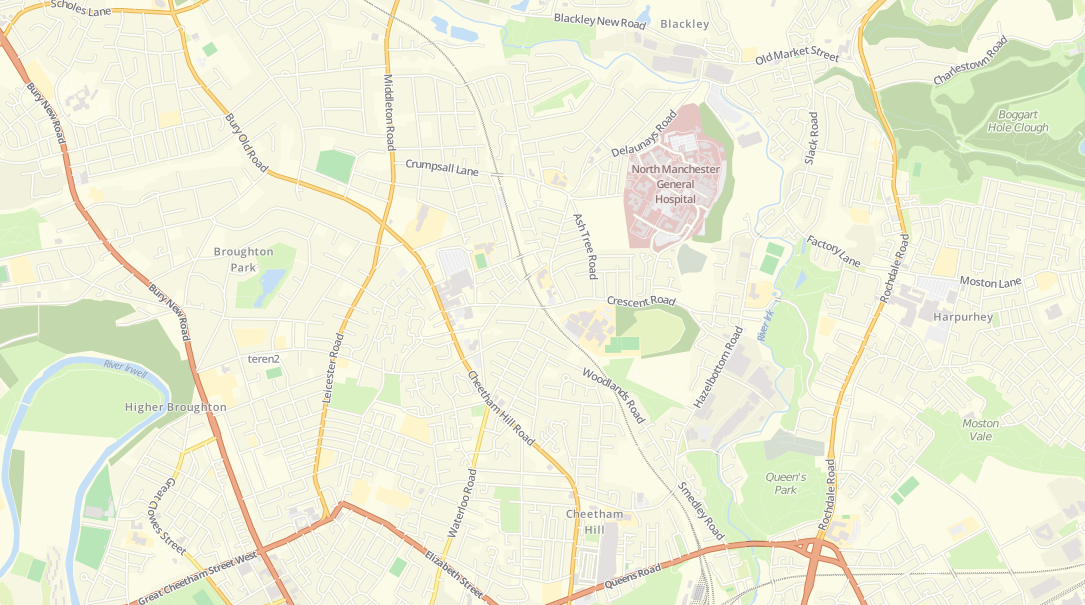
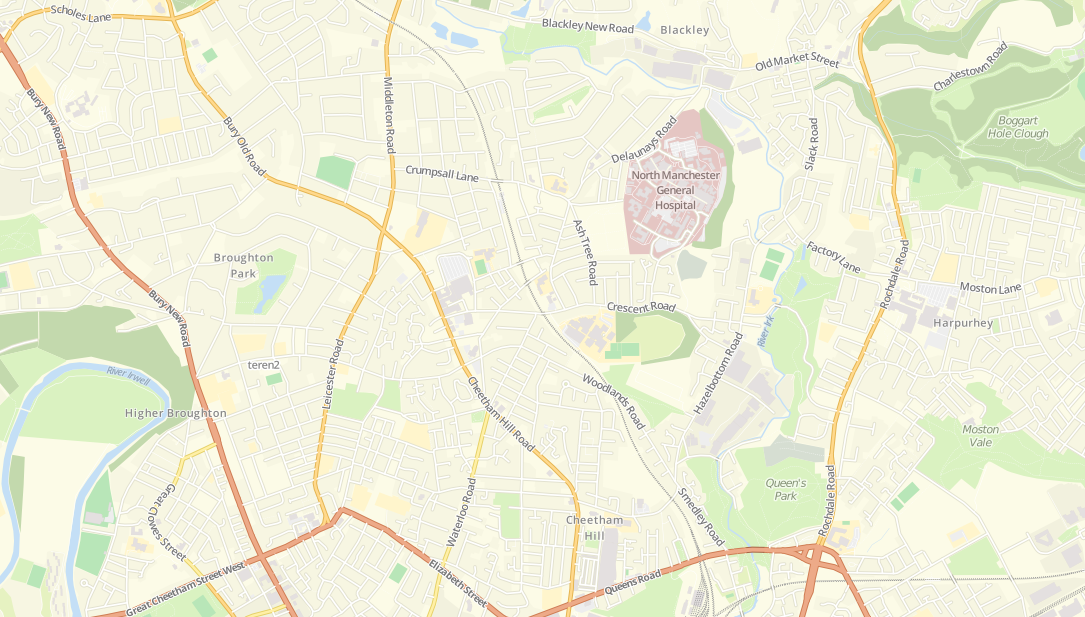
now complete with new scalebar code

diff --git a/mapgen.py b/mapgen.py
@@ -20,14 +20,13 @@ def mm2px(mm, dpi=96):
 	return int(ceil(mm * dpi / 25.4))
 
 
-def addScaleBar(m, mapImg):
+def getScaleBar(m):
 	"""
-	* Add a scalebar to a map, at a sensible width of approx 20% the width of the map
+	* Construct a quick and dirty scalebar, at a sensible width of approx 20% the width of the map
+	* Returned as a PIL Image object
 	*
 	* Parameters:
-	*  - m: 		mapnik Map object
-	*  - mapImg:	PIL Image object for the exported mapnik map
-	*  - left:	boolean value describing whether it should be drawn on the left (True) or right (False)
+	*  - m: 		mapnik Map object 
 	"""
 
 	# get the m per pixel on the map
@@ -50,48 +49,44 @@ def addScaleBar(m, mapImg):
 		scaleText = str(int(mScaleBar/1000)) + "km"
 	else:
 		scaleText = str(int(mScaleBar)) + "m"
+		
+	# set scale bar positioning parameters
+	lBuffer    = mm2px(2)	# distance from the line to the end of the box
+	tickHeight = mm2px(3)	# height of the tick marks
+	
+	# new image for scalebar
+	scalebarImg = Image.new('RGB', (int(pxScaleBar+lBuffer+lBuffer), lBuffer+lBuffer+tickHeight), 'white')
 	
 	# get PIL context to draw on
-	draw = ImageDraw.Draw(mapImg)
-	
-	# dimensions of the PIL image (replaces use of m.width and m.height in the GitHub version)
-	width, height = mapImg.size
+	sb_draw = ImageDraw.Draw(scalebarImg)
 
 	# prepare a font
 	font = ImageFont.truetype('./open-sans/OpenSans-Regular.ttf', 12)
 	
 	# get the dimensions of the text
-	tw, th = draw.textsize(scaleText, font=font)
+	tw, th = sb_draw.textsize(scaleText, font=font)
 	
-	# set scale bar positioning parameters
-	barBuffer  = mm2px(5)	# distance from scale bar to edge of image
-	lBuffer    = 5	# distance from the line to the end of the background
-	tickHeight = 12	# height of the tick marks
-	
-	# draw scale bar...
-			
+	sbw, sbh = scalebarImg.size
+		
 	# add background
-	draw.rectangle([
-		(width-pxScaleBar-lBuffer-lBuffer-barBuffer, 
-		height-barBuffer-lBuffer-lBuffer-tickHeight),
-		(width-barBuffer,height-barBuffer)], 
-		outline=(0,0,0), fill=(255,255,255))
+	sb_draw.rectangle([
+		(1, 1), (sbw-1, sbh-1)], 
+		outline=('black'), fill=('white'))
 
 	# add lines
-	draw.line([
-		(width-lBuffer-pxScaleBar-barBuffer, height-tickHeight-barBuffer), 
-		(width-lBuffer-pxScaleBar-barBuffer, height-lBuffer-barBuffer), 
-		(width-lBuffer-barBuffer, height-lBuffer-barBuffer), 
-		(width-lBuffer-barBuffer, height-tickHeight-barBuffer)], 
-		fill=(0, 0, 0), width=1)
-
+	sb_draw.line([
+		(lBuffer, sbh-tickHeight-lBuffer), 
+		(lBuffer, sbh-lBuffer),
+		(lBuffer+pxScaleBar, sbh-lBuffer), 
+		(lBuffer+pxScaleBar, sbh-tickHeight-lBuffer)], 
+		fill='black', width=1)
+ 
 	# add label
-	draw.text(
-		(width-lBuffer-pxScaleBar/2-tw, 
-		height-barBuffer-lBuffer-th), 
-		scaleText, fill=(0,0,0), font=font)
-
-
+	sb_draw.text(
+		((sbw-tw)/2, sbh-tickHeight-lBuffer-mm2px(1.5)), 
+		scaleText, fill='black', font=font)
+	
+	return scalebarImg
 
 
 '''
@@ -173,6 +168,9 @@ carto OSMBright/project.mml > OSMBright/style.xml
 w_mm = 297
 h_mm = 210
 
+# the gap between the map and the qr code etc
+map_buffer = mm2px(3)
+
 #  page dimensions in px
 page_w = mm2px(w_mm)
 page_h = mm2px(h_mm)
@@ -187,10 +185,13 @@ page_buffer = mm2px(5)
 qr_size = mm2px(32)
 
 # the height of the map
-map_height = mm2px(160)
+map_height = mm2px(163)
 
 # circle diameter
-ed = mm2px(15)
+ed = mm2px(18)
+
+# gap between circles
+eg = mm2px(2)
 
 stylesheet = 'OSMBright/style.xml'
 # stylesheet = 'OSMBright-Blossom/style.xml'
@@ -199,24 +200,28 @@ stylesheet = 'OSMBright/style.xml'
 '''''''''''''''''''''''''''''''''''''END SETTINGS'''''''''''''''''''''''''''''''''''''''''
 ''''''''''''''''''''''''''''''''''''''''''''''''''''''''''''''''''''''''''''''''''''''''''
 
-# make the map using mapnik stylesheet
+# make new blank, page sized image
+page = Image.new('RGB', (page_w, page_h), 'white')
+
+# make the map using mapnik stylesheet, add border and add to the page
 image = 'map.png'
 m = mapnik.Map(page_w - page_buffer*2, map_height)
 mapnik.load_map(m, stylesheet)
 m.zoom_to_box(mapnik.Box2d(float(blX), float(blY), float(trX), float(trY)))
 mapnik.render_to_file(m, image)
 map = ImageOps.expand(Image.open('map.png'), border=2, fill='black')
-
-# make new blank, page sized image
-page = Image.new('RGB', (page_w, page_h), 'white')
-
-# open the north arrow
-north = Image.open('north.png')
-
-# put the map and the qrcode on the page
 page.paste(map, (page_buffer, page_buffer))
-page.paste(qrcode.resize((qr_size, qr_size)), (page_buffer, map_height+mm2px(13)))
-page.paste(north.resize((qr_size-page_buffer, qr_size-page_buffer)), (page_buffer + qr_size + page_buffer, map_height+mm2px(13)+page_buffer/2))
+
+# add qr code to the map
+page.paste(qrcode.resize((qr_size, qr_size)), (page_buffer, map_height+map_buffer+page_buffer))
+
+# open the north arrow and add to the page
+north = Image.open('north.png').resize((qr_size-page_buffer, qr_size-page_buffer))
+page.paste(north, (page_buffer + qr_size + page_buffer, map_height+map_buffer+page_buffer/2+page_buffer))
+
+# add a scalebar to the page
+scalebar = getScaleBar(m)
+page.paste(scalebar, (page_buffer*3 + qr_size + north.size[0], map_height+map_buffer+page_buffer/2+page_buffer))
 
 # add some circles for dempster-shafer - get drawing context for page
 draw = ImageDraw.Draw(page)
@@ -228,8 +233,8 @@ x = page_buffer
 for i in xrange(5):
 	
 	# draw circles 5mm apart for each iteration
-	draw.ellipse([page_w-x-ed, map_height+mm2px(17), page_w-x, map_height+mm2px(17)+ed], fill='white', outline='black')
-	x += ed + 3
+	draw.ellipse([page_w-x-ed, page_buffer+map_height+map_buffer+page_buffer/2, page_w-x, page_buffer+map_height+map_buffer+page_buffer/2+ed], fill='white', outline='black')
+	x += ed + eg
 
 # prepare a font
 font = ImageFont.truetype('./open-sans/OpenSans-Regular.ttf', 12)
@@ -240,13 +245,11 @@ tw, th = draw.textsize(uid, font=font)
 # add attribution text
 year = str(datetime.today().year)
 attributionText = "".join(["Paper2GIS Copyright ", year, " Dr Jonny Huck: https://github.com/jonnyhuck/paper2gis. Map data Copyright ", year, " OpenStreetMap Contributors"])
-draw.text((page_buffer, map_height+mm2px(1.5) + th), attributionText, fill='black', font=font)
+draw.text((page_buffer, page_h-mm2px(3)-th), attributionText, fill='black', font=font)
 
 # add uuid text
-draw.text((page_w - tw - page_buffer, map_height+mm2px(1.5) + th), uid, fill='black', font=font)
-
-# add a scalebar to the bottom left of the map
-addScaleBar(m, page)
+# draw.text((page_w - tw - page_buffer, map_height+mm2px(1.5) + th), uid, fill='black', font=font)
+draw.text((page_buffer*3 + qr_size + north.size[0] + (scalebar.size[0]/2) - tw/2, map_height+map_buffer+mm2px(1.5)+(page_buffer/2)+scalebar.size[1]+page_buffer), uid, fill='black', font=font)
 
 # save the result
 page.save(filepath, 'PNG')
